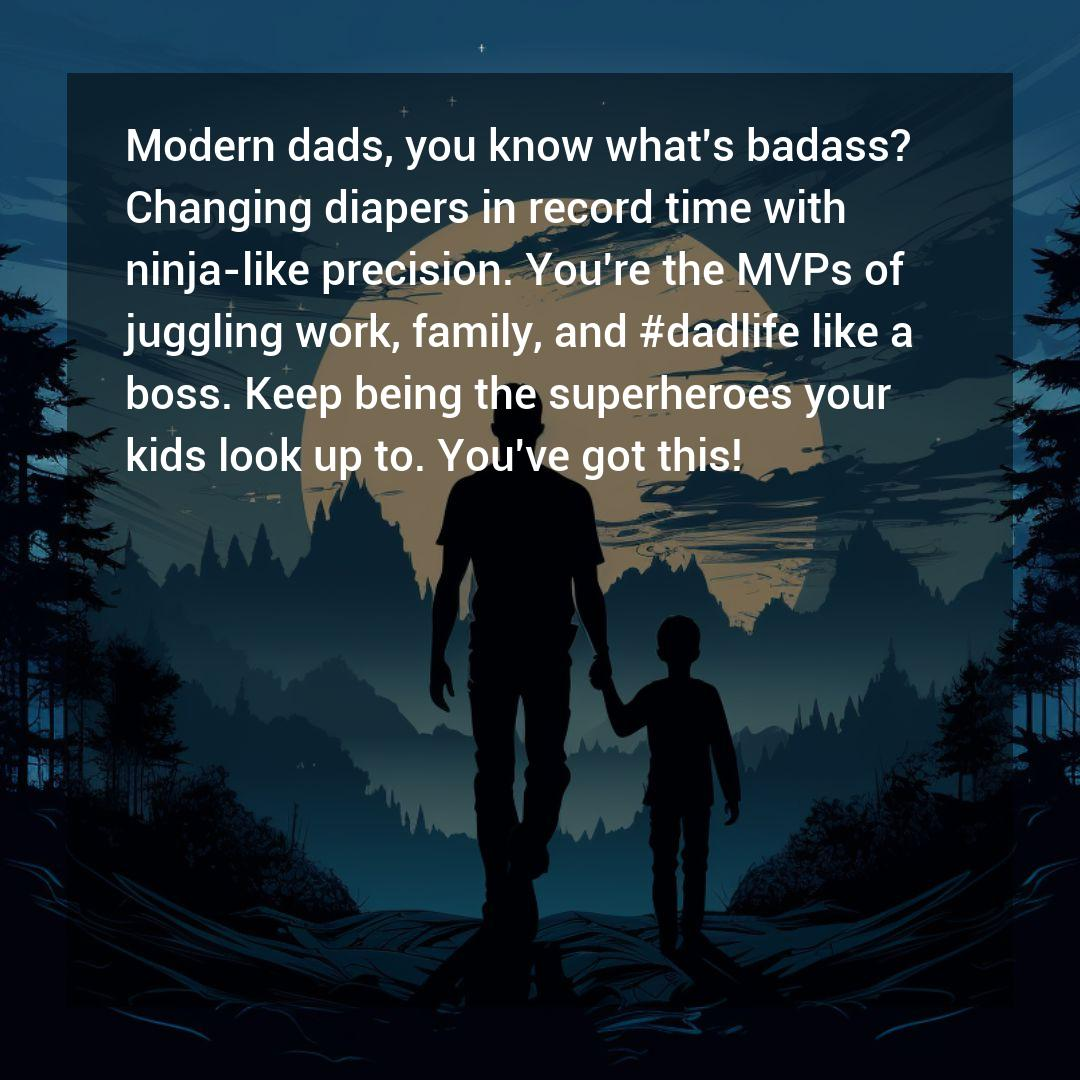
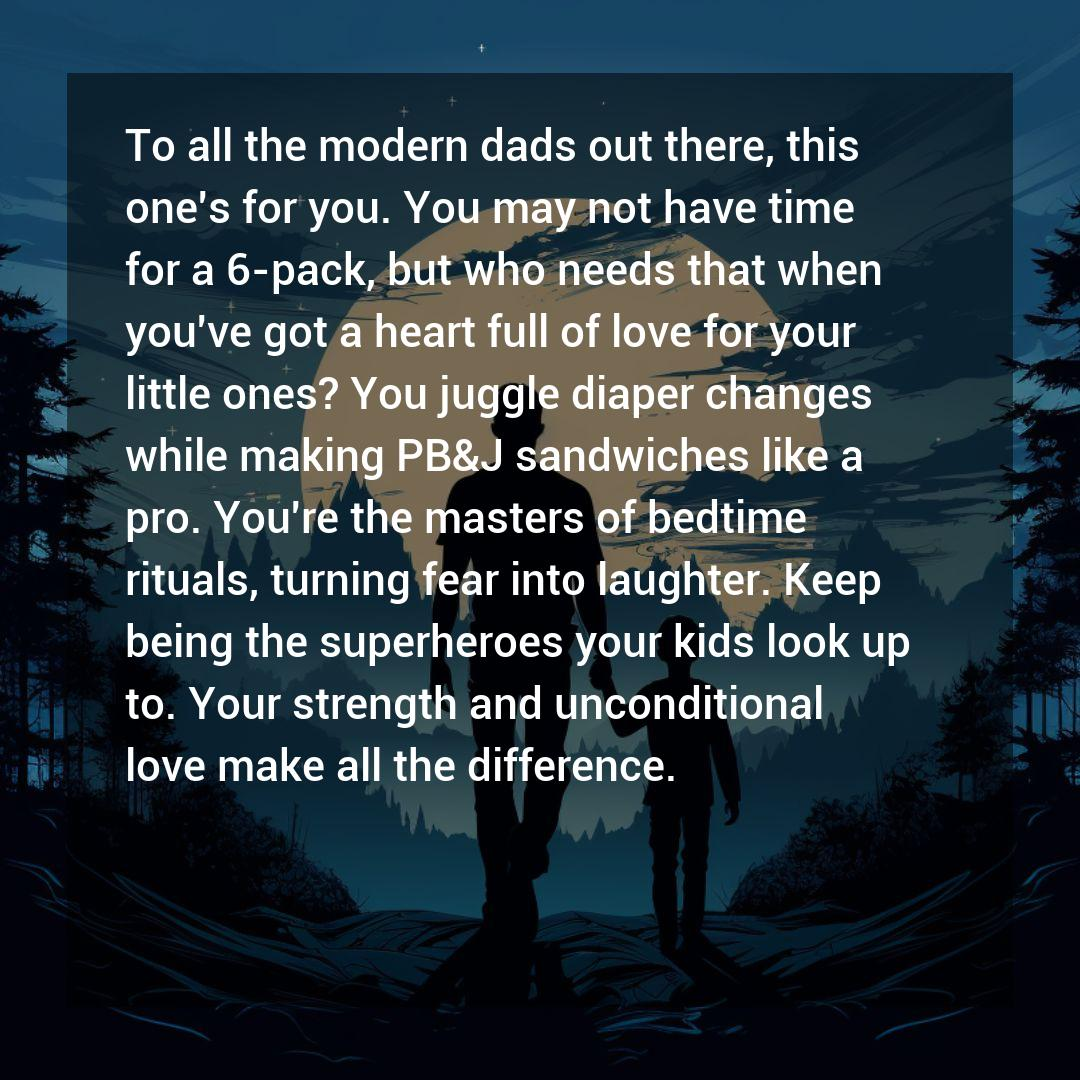
updated code

Changed region(s): [[0.0917, 0.1222, 0.8556, 0.7333], [0.1222, 0.6417, 0.1528, 0.6722]]

diff --git a/ai_post_gen/daddigital_gen.py b/ai_post_gen/daddigital_gen.py
@@ -26,7 +26,7 @@ def dad_post():
             },
             {
             "role": "user",
-            "content": "Generate a similar post. Make sure it contains absolutely no emojis, hashtags, or quotation marks and is under 600 characters."
+            "content": "Generate a similar post. Make sure it contains absolutely no emojis, hashtags, or quotation marks. The text has a maximum of 600 characters."
             }
         ],
         temperature=1,
@@ -46,7 +46,7 @@ def dad_post():
             {"role": "system", "content": "You are a creative assistant specialized in crafting engaging and relevant Instagram captions."},
             {"role": "user", "content": f"Generate a caption for this inspiring post: '{inspiring_text}'."},
             {"role": "assistant", "content": "Elevate your day with this thought and remember, the best inspiration comes from within. Don't forget to check out our dad-curated shop, link in bio."},
-            {"role": "user", "content": "Proceed with generating a similar caption. Make it a maximum of 300 characters, no emojis, hashtags, or quotation marks."}
+            {"role": "user", "content": "Proceed with generating a similar caption. Make it a maximum of 400 characters, and use relevant hashtags."}
         ],
         temperature=0.8,
         max_tokens=200,

diff --git a/instagram_api/instagram_poster.py b/instagram_api/instagram_poster.py
@@ -7,6 +7,7 @@ def post_dad(caption, imagepath="../INSTADAD/ready_to_post/post01.jpg"):
 
     username = os.getenv("INSTAGRAM_USERNAME")
     password = os.getenv("INSTAGRAM_PASSWORD")
+    
 
     client = Client()
     try:

diff --git a/main.py b/main.py
@@ -12,8 +12,8 @@ def main():
     
     create_image(inspiring_text)
     
-    # Post to instagram
-    post_dad(caption)
+    # # Post to instagram
+    # post_dad(caption)
     
 # ... (your existing imports and code)
 
